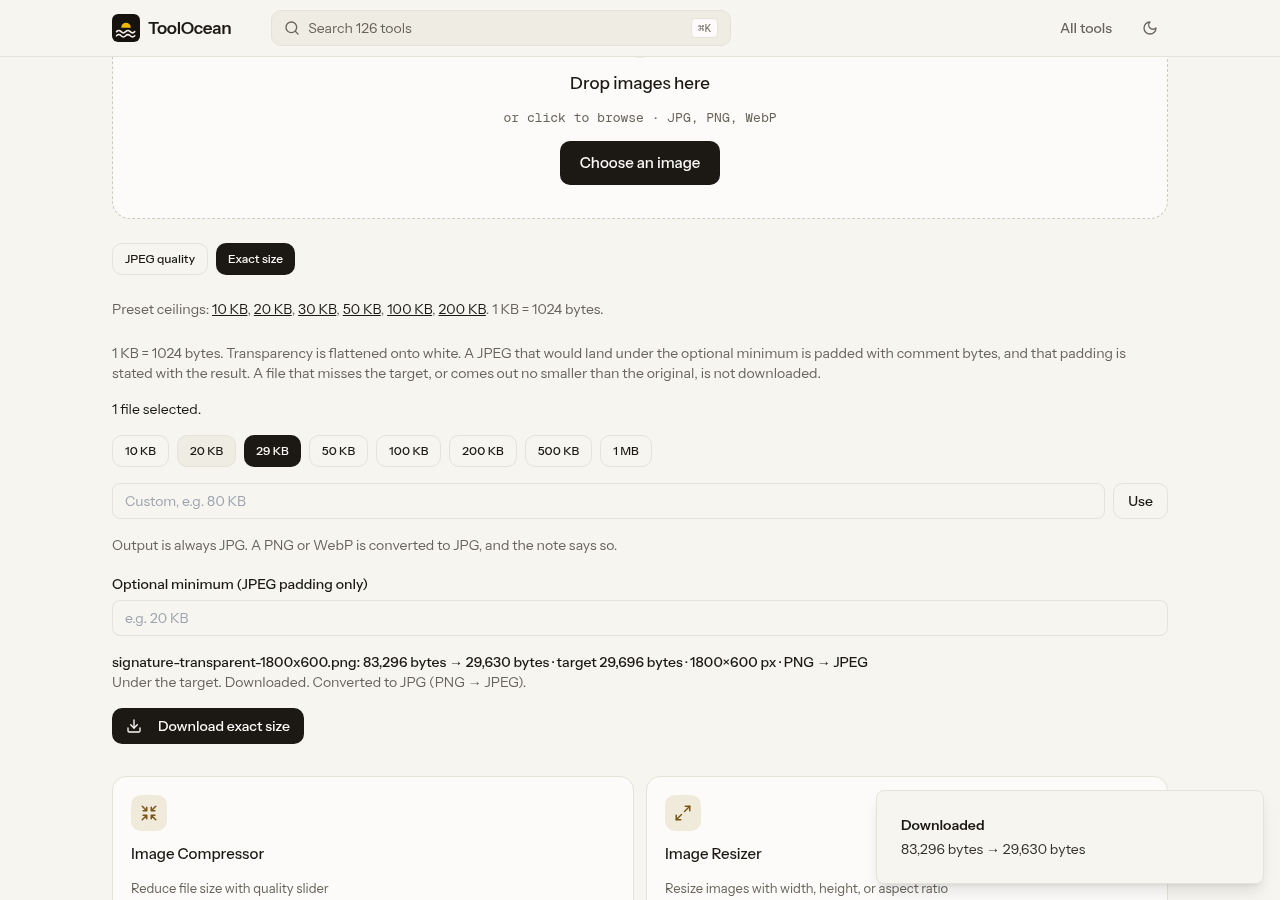
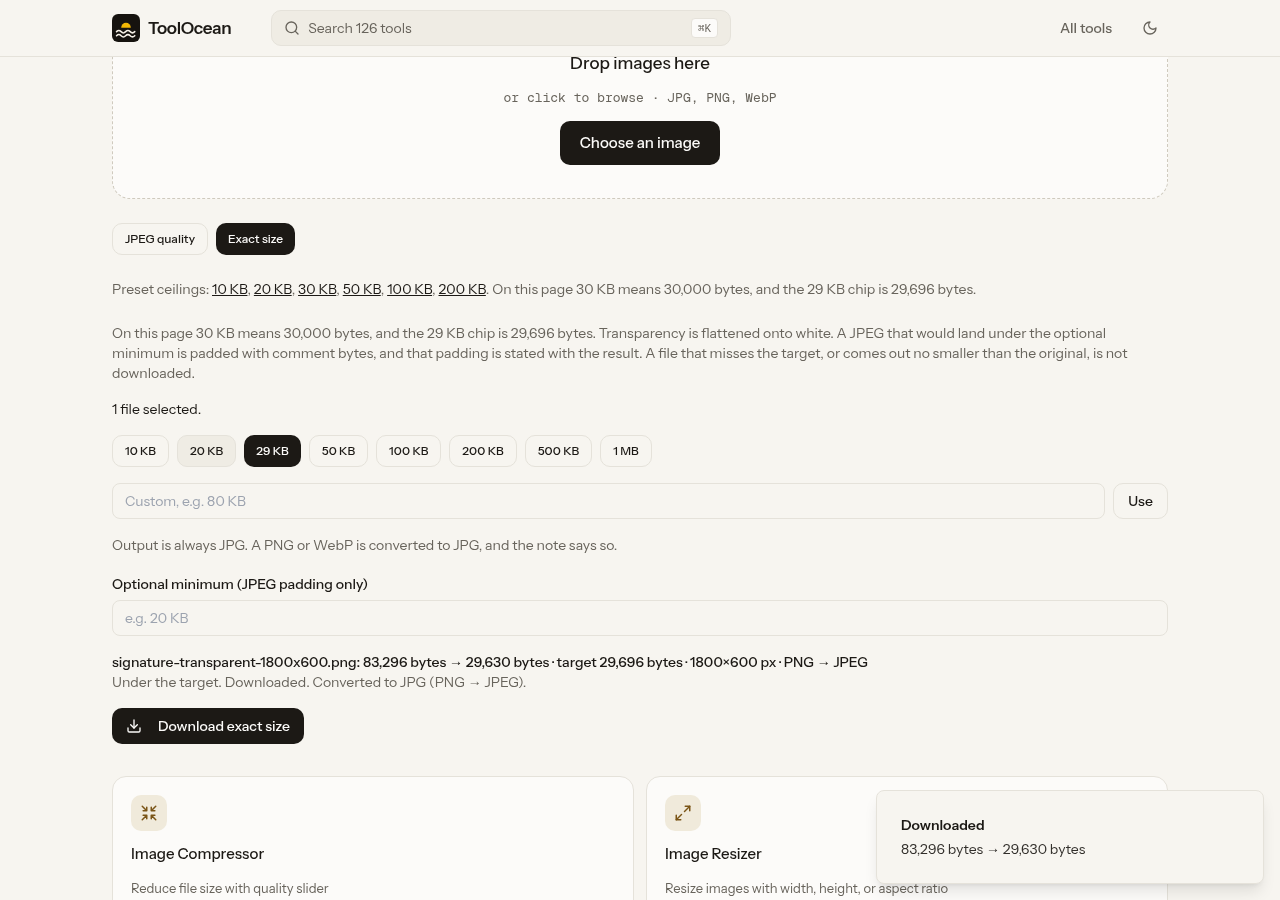
Refresh compress-to-30 KB screenshots with the 30,000-byte tool text
All ten captures retaken from a local production build of ad23188, losslessly optimised; measured bytes are unchanged.

Changed region(s): [[0.0938, 0.2489, 0.875, 0.4356], [0.4062, 0.0622, 0.5938, 0.2178]]

diff --git a/docs/screenshots/compress-image-to-30kb/README.md b/docs/screenshots/compress-image-to-30kb/README.md
@@ -9,9 +9,11 @@ Page-only viewport captures of `/compress-image-to-30kb` at 1280 px and 375 px w
 
 ## Provenance
 
-- **App code:** commit `051e7bf` ("Add a compress-to-30 KB image landing page"). The commit that adds this folder
-  changes only files under `docs/screenshots/compress-image-to-30kb/`, so the app it shows is the same.
-- **Build:** a production build of `051e7bf` (`npm run build`, all gates passing), served by
+- **App code:** commit `ad23188` ("State the 30,000-byte rule in the 30 KB page's tool text"). The commit that
+  refreshes this folder changes only files under `docs/screenshots/compress-image-to-30kb/`, so the app it shows is
+  the same. All ten captures were retaken after that commit, which replaced the tool's "1 KB = 1024 bytes" lines on
+  this page with "On this page 30 KB means 30,000 bytes, and the 29 KB chip is 29,696 bytes."
+- **Build:** a production build of `ad23188` (`npm run build`, all gates passing), served by
   `node scripts/serve-dist.mjs` on `127.0.0.1`.
 - **Browser:** Google Chrome 156, driven headless by Playwright with the light theme.
   - Every request to a host other than the local server was aborted, and `window.umami` was stubbed.
